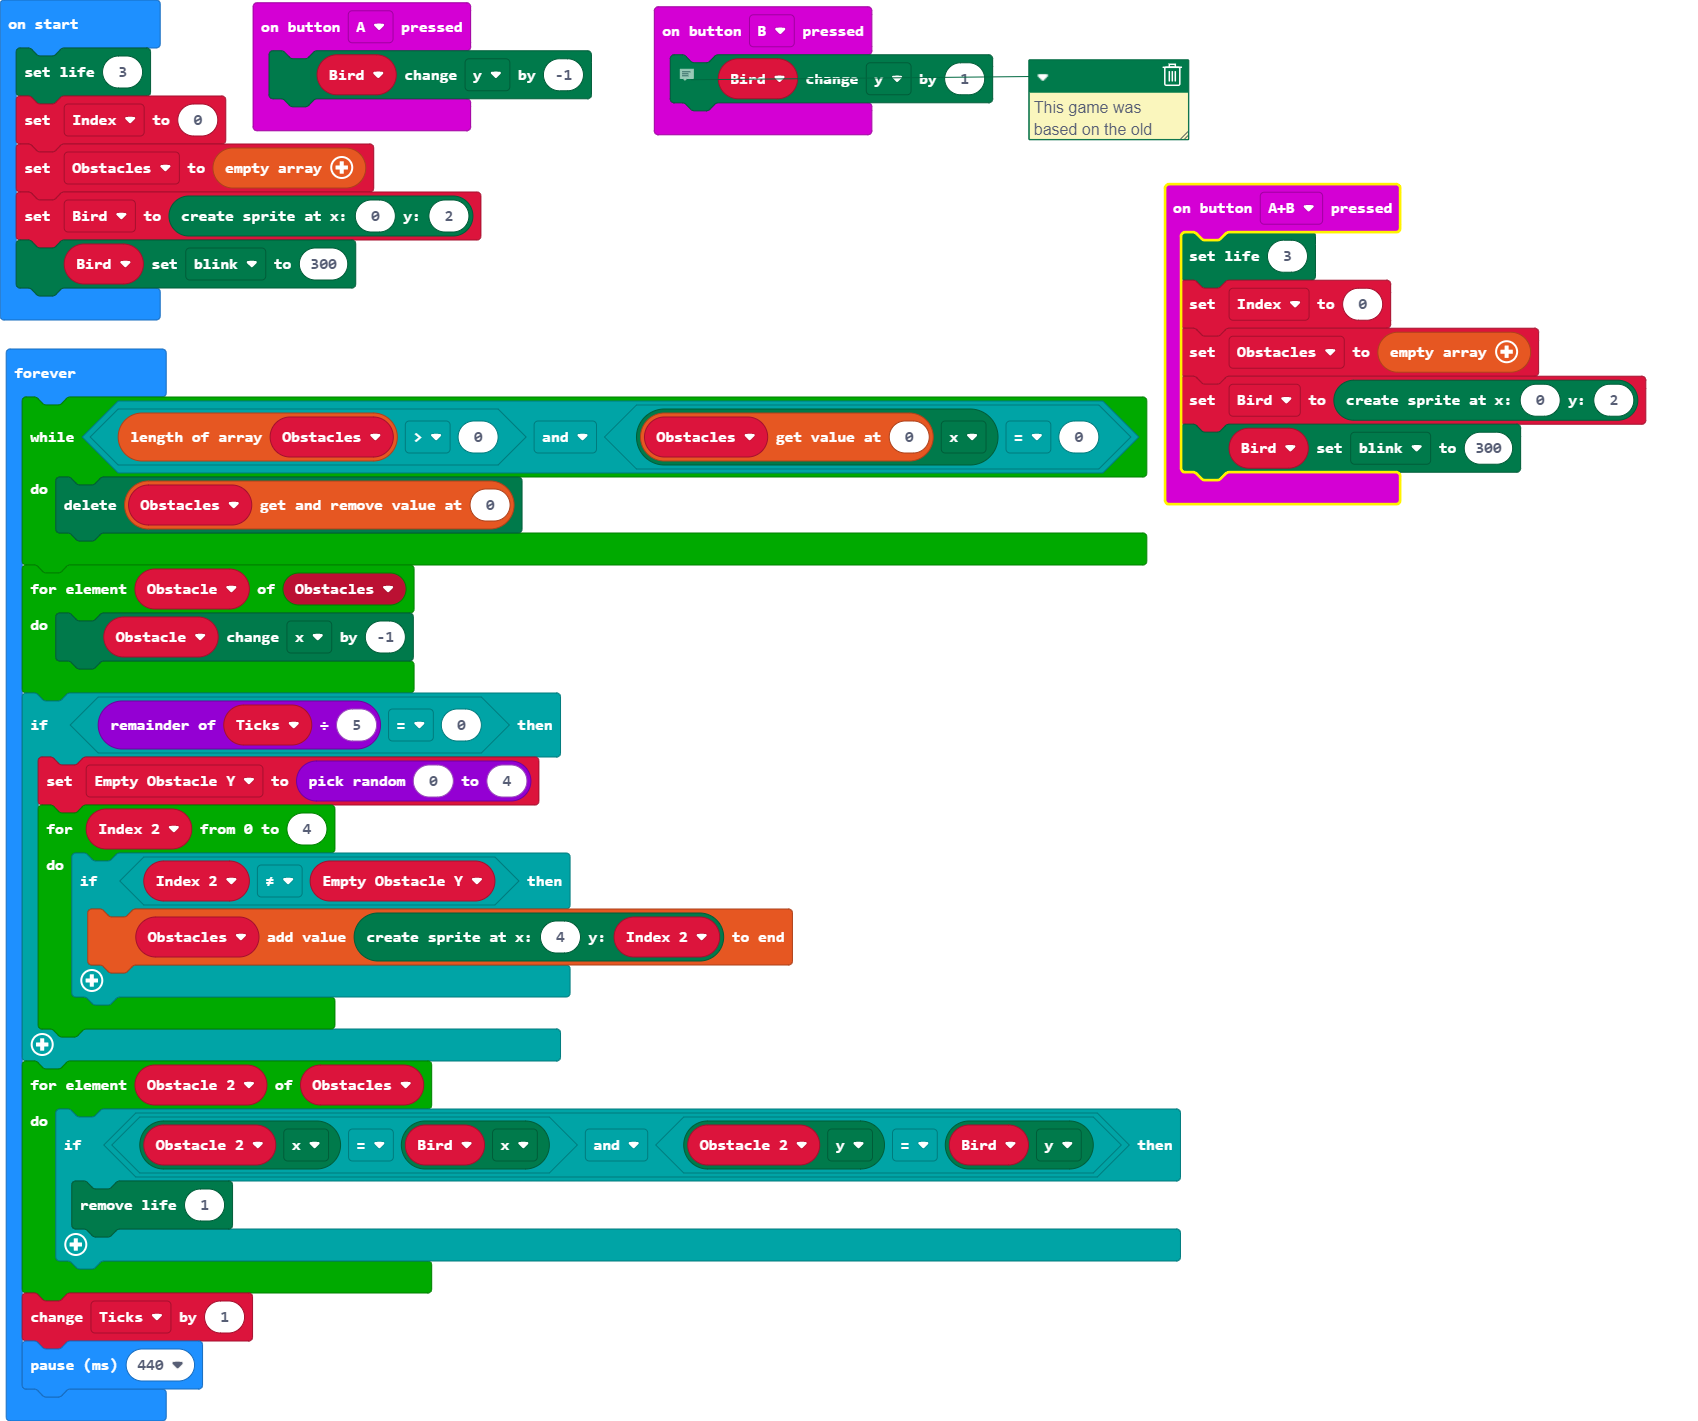
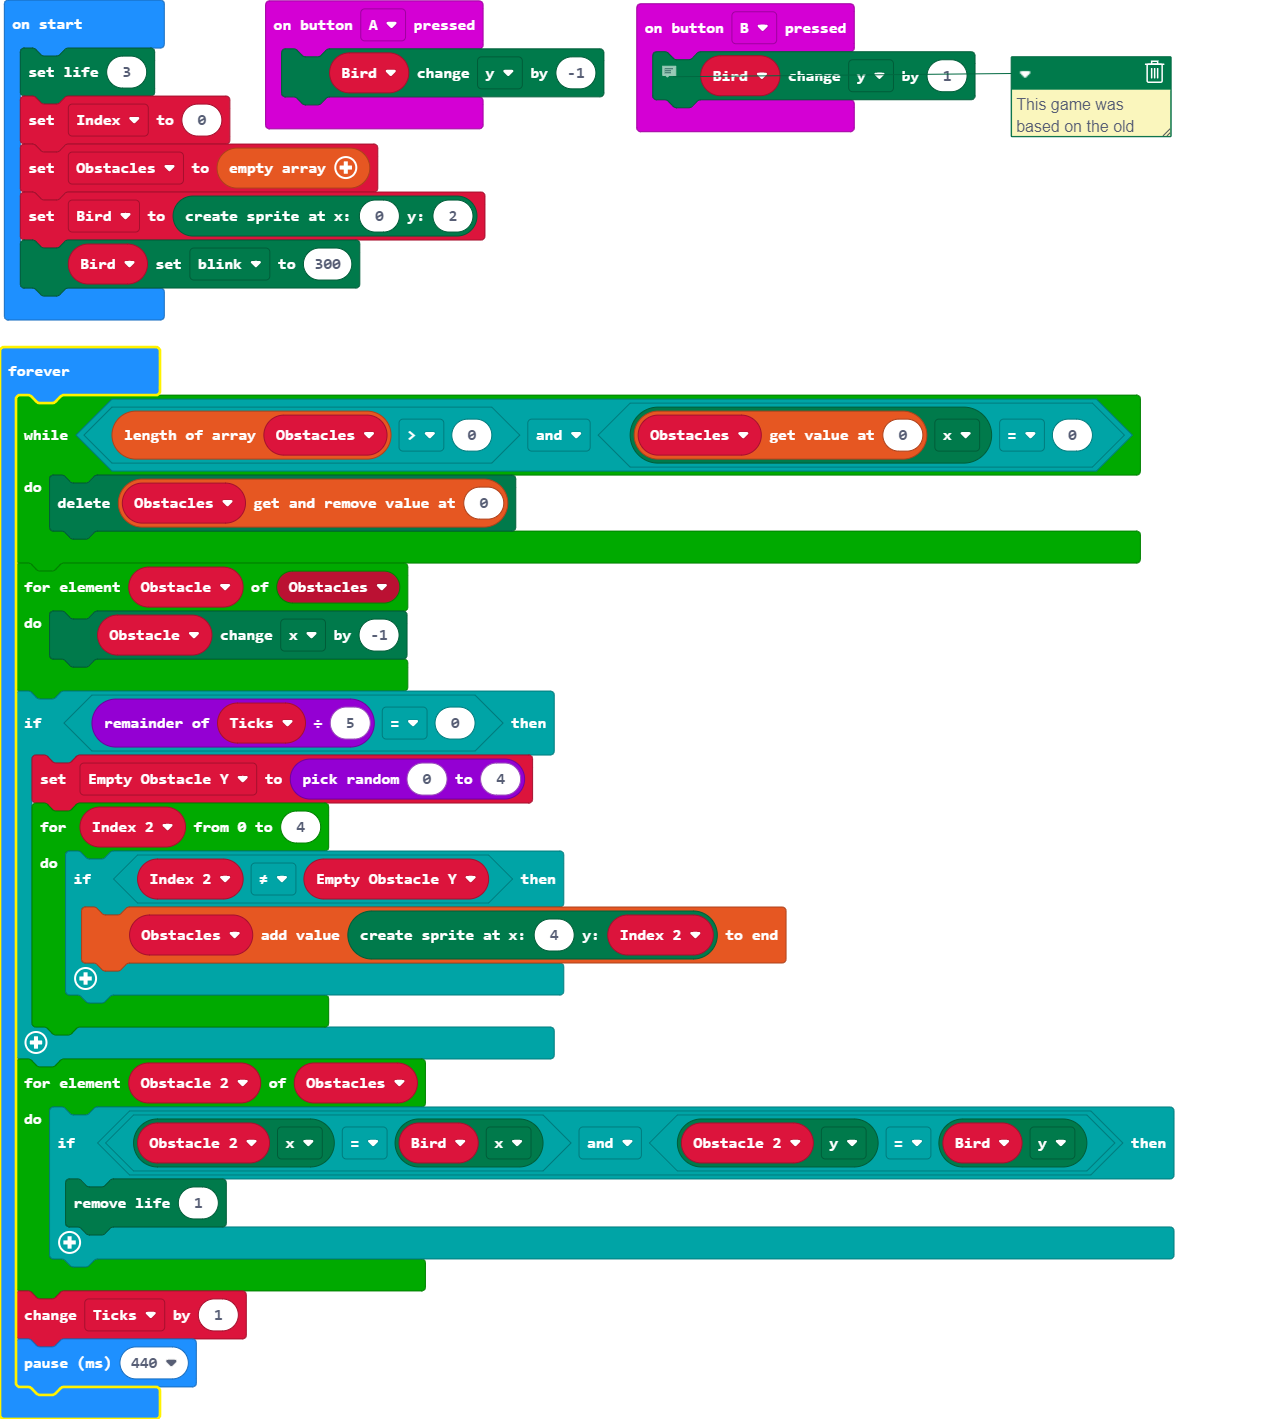
Update main.blocks, main.ts

Changed region(s): [[0.0, 0.0, 0.9765, 1.0], [0.2441, 0.8682, 0.3357, 0.9302]]

diff --git a/main.ts b/main.ts
@@ -1,13 +1,6 @@
 input.onButtonPressed(Button.A, function () {
     Bird.change(LedSpriteProperty.Y, -1)
 })
-input.onButtonPressed(Button.AB, function () {
-    game.setLife(3)
-    Index = 0
-    Obstacles = []
-    Bird = game.createSprite(0, 2)
-    Bird.set(LedSpriteProperty.Blink, 300)
-})
 input.onButtonPressed(Button.B, function () {
     // This game was based on the old classic game " Flappy Bird. "
     Bird.change(LedSpriteProperty.Y, 1)
@@ -15,11 +8,9 @@ input.onButtonPressed(Button.B, function () {
 let Empty_Obstacle_Y = 0
 let Ticks = 0
 let Bird: game.LedSprite = null
-let Obstacles: game.LedSprite[] = []
-let Index = 0
 game.setLife(3)
-Index = 0
-Obstacles = []
+let Index = 0
+let Obstacles: game.LedSprite[] = []
 Bird = game.createSprite(0, 2)
 Bird.set(LedSpriteProperty.Blink, 300)
 basic.forever(function () {
